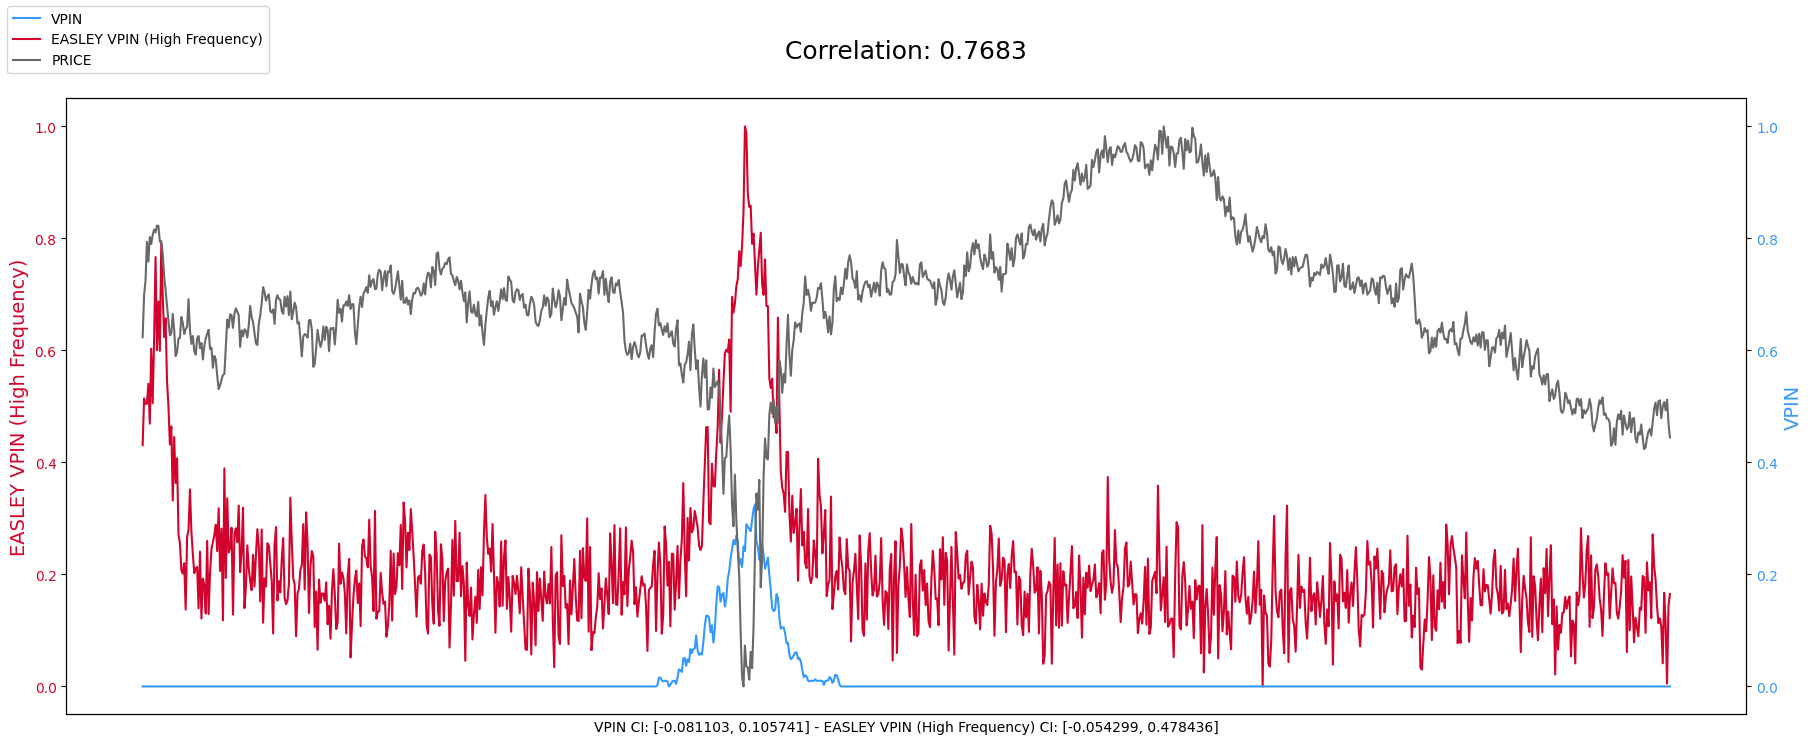
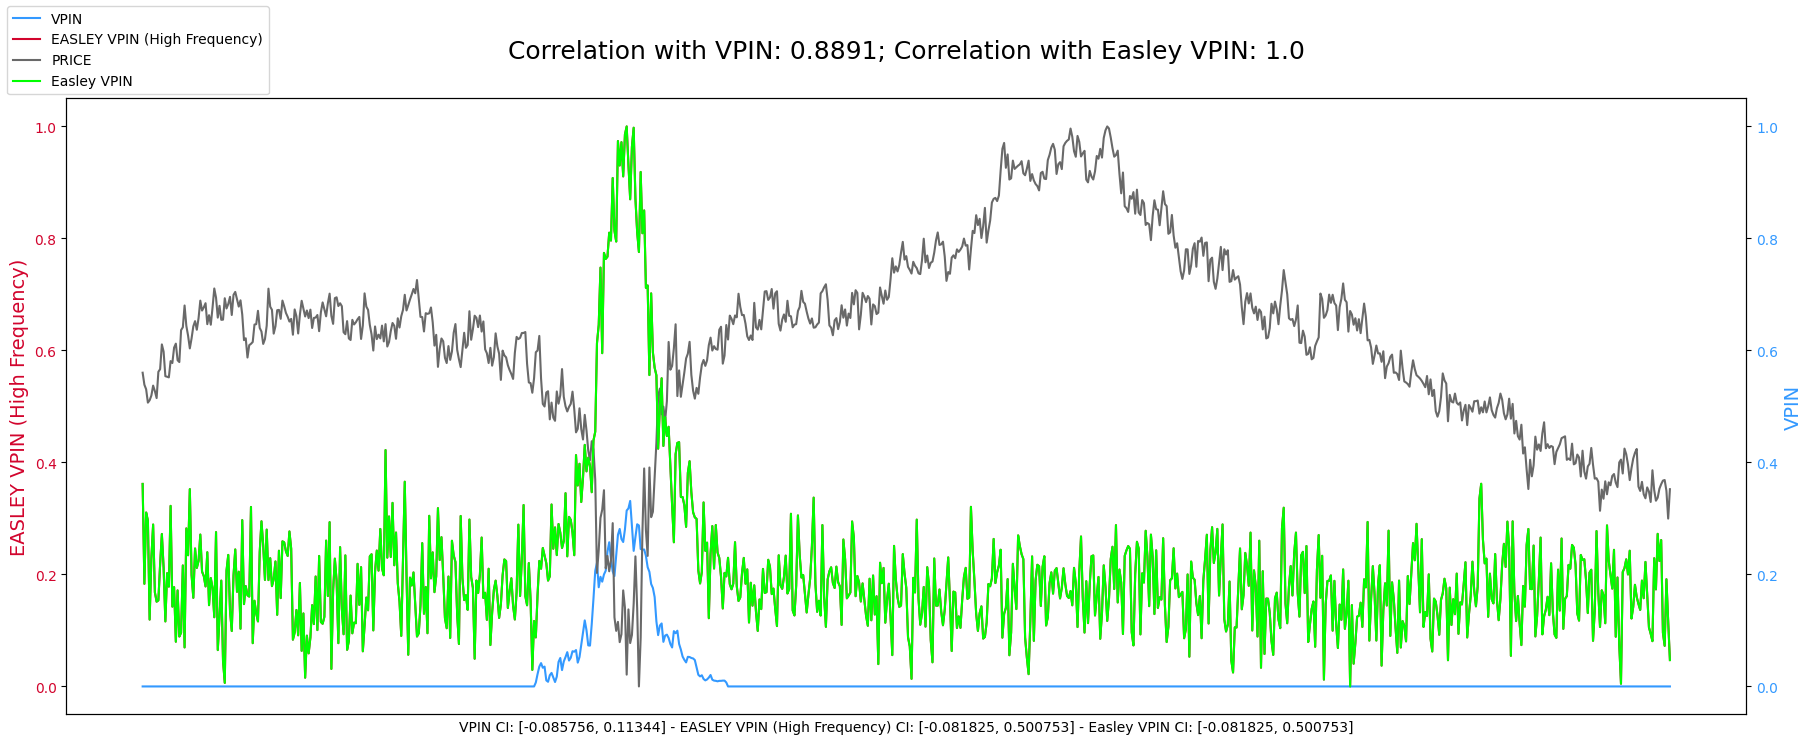
Add 1 and 2 % experiments

diff --git a/plots/monte-carlo/graph_metrics.py b/plots/monte-carlo/graph_metrics.py
@@ -7,18 +7,21 @@ import multiprocessing
 import sys
 
 
-def plot_metrics(X, Y1, Y2, Y3, metric1, metric2, metric3):
+def plot_metrics(X, Y1, Y2, Y3, Y4, metric1, metric2, metric3, metric4):
     # Y1 = VPIN
     # Y2 = Metric values
     # Y3 = PRICE
+    # Y4 = Easley VPIN
 
     # metric1 = VPIN
     # metric2 = Metric
     # metric3 = PRICE
+    # metric4 = Easley VPIN
 
     COLOR_VPIN = "#3399ff"
     COLOR_METRIC = "#D2042D"
     COLOR_PRICE = "#696969"
+    COLOR_EASLEY_VPIN = "#00FF00"
 
     # Y3 Should be normalized first
     x = np.array(Y3)
@@ -32,31 +35,40 @@ def plot_metrics(X, Y1, Y2, Y3, metric1, metric2, metric3):
     l1, = ax2.plot(X, Y1, color=COLOR_VPIN)
     l2, = ax1.plot(X, Y2, color=COLOR_METRIC)
     l3, = ax2.plot(X, x_norm, color=COLOR_PRICE)
+    l4, = ax2.plot(X, Y4, color=COLOR_EASLEY_VPIN)
 
     # Standard deviation and confidence interval
-    standard_deviation_metric1 = np.std(Y1)
-    standard_deviation_metric2 = np.std(Y2)
+    standard_deviation_metric1 = np.std(Y1) # VPIN
+    standard_deviation_metric2 = np.std(Y2) # Metric value
+    standard_deviation_metric4 = np.std(Y4) # Easley VPIN
     average_metric1 = np.mean(Y1)
     average_metric2 = np.mean(Y2)
+    average_metric4 = np.mean(Y4)
     lower_bound_1 = average_metric1 - 2 * standard_deviation_metric1
     upper_bound_1 = average_metric1 + 2 * standard_deviation_metric1
     lower_bound_2 = average_metric2 - 2 * standard_deviation_metric2
     upper_bound_2 = average_metric2 + 2 * standard_deviation_metric2
+    lower_bound_4 = average_metric4 - 2 * standard_deviation_metric4
+    upper_bound_4 = average_metric4 + 2 * standard_deviation_metric4
 
     # Correlation
-    correlation = np.corrcoef(Y1, Y2)
+    correlation_vpin_metric = np.corrcoef(Y1, Y2)
+    correlation_easley_vpin_metric = np.corrcoef(Y4, Y2)
 
     # Plot statistics
     number_of_rounded_decimals = 6
-    subtitle1 = metric1 + " CI: [" + str(round(lower_bound_1, number_of_rounded_decimals)) + ", " + \
+    ci1 = metric1 + " CI: [" + str(round(lower_bound_1, number_of_rounded_decimals)) + ", " + \
         str(round(upper_bound_1, number_of_rounded_decimals)) + "]"
-    subtitle2 = metric2 + " CI: [" + str(round(lower_bound_2, number_of_rounded_decimals)) + ", " + \
+    ci2 = metric2 + " CI: [" + str(round(lower_bound_2, number_of_rounded_decimals)) + ", " + \
         str(round(upper_bound_2, number_of_rounded_decimals)) + "]"
-    subtitle3 = round(correlation[1][0], 4)
+    ci3 = metric4 + " CI: [" + str(round(lower_bound_4, number_of_rounded_decimals)) + ", " + \
+          str(round(upper_bound_4, number_of_rounded_decimals)) + "]"
+    subtitle_vpin_metric = round(correlation_vpin_metric[1][0], 4)
+    subtitle_easley_vpin_metric = round(correlation_easley_vpin_metric[1][0], 4)
 
-    fig.text(0.2, 0.93, "Correlation: " + str(subtitle3), ha='center', fontsize=18)
+    fig.text(0.2, 0.93, "Correlation with VPIN: " + str(subtitle_vpin_metric) + "; Correlation with Easley VPIN: " + str(subtitle_easley_vpin_metric), ha='center', fontsize=18)
 
-    ax1.set_xlabel(subtitle1 + " - " + subtitle2)
+    ax1.set_xlabel(ci1 + " - " + ci2 + " - " + ci3)
     ax1.set_xticks([])
 
     ax2.set_ylabel(metric1, color=COLOR_VPIN, fontsize=14)
@@ -69,7 +81,7 @@ def plot_metrics(X, Y1, Y2, Y3, metric1, metric2, metric3):
     agents = sys.argv[2]
     percentage = sys.argv[3]
 
-    fig.legend((l1, l2, l3), (metric1, metric2, metric3), fontsize="medium", loc='upper left')
+    fig.legend((l1, l2, l3, l4), (metric1, metric2, metric3, metric4), fontsize="medium", loc='upper left')
 
     # Adjust layout to make room for the legend
     plt.subplots_adjust(left=-0.5)
@@ -368,25 +380,25 @@ if __name__ == '__main__':
         small_granularity = int(0.1 * len(mean_PRICE_results_small))
 
         # CORRELATION PLOTS
-        x_axis_VPIN_small = np.array(mean_VPIN_results_small)[:-small_granularity]
-        x_axis_VPIN_big = np.array(mean_VPIN_results_big)[:-big_granularity]
-        x_axis_EVPIN_small = np.array(mean_EVPIN_results_small)[:-small_granularity]
-        x_axis_EVPIN_big = np.array(mean_EVPIN_results_big)[:-big_granularity]
-        y_axis_PRICE_small = np.array(mean_PRICE_results_small)[:-small_granularity]
-        y_axis_PRICE_big = np.array(mean_PRICE_results_big)[:-big_granularity]
+        x_axis_VPIN_small = np.array(mean_VPIN_results_small)[small_granularity : -small_granularity]
+        x_axis_VPIN_big = np.array(mean_VPIN_results_big)[big_granularity : -big_granularity]
+        x_axis_EVPIN_small = np.array(mean_EVPIN_results_small)[small_granularity : -small_granularity]
+        x_axis_EVPIN_big = np.array(mean_EVPIN_results_big)[big_granularity : -big_granularity]
+        y_axis_PRICE_small = np.array(mean_PRICE_results_small)[small_granularity : -small_granularity]
+        y_axis_PRICE_big = np.array(mean_PRICE_results_big)[big_granularity : -big_granularity]
 
         # BIG
-        y_axis_assortativity = np.array(mean_assortativity_results)[:-big_granularity]
-        y_axis_average_clustering = np.array(mean_average_clustering_results)[:-big_granularity]
-        y_axis_diameter = np.array(mean_diameter_results)[:-big_granularity]
-        y_axis_independence = np.array(mean_independence_results)[:-big_granularity]
-        y_axis_stars = np.array(mean_stars_results)[:-big_granularity]
+        y_axis_assortativity = np.array(mean_assortativity_results)[big_granularity : -big_granularity]
+        y_axis_average_clustering = np.array(mean_average_clustering_results)[big_granularity : -big_granularity]
+        y_axis_diameter = np.array(mean_diameter_results)[big_granularity : -big_granularity]
+        y_axis_independence = np.array(mean_independence_results)[big_granularity : -big_granularity]
+        y_axis_stars = np.array(mean_stars_results)[big_granularity : -big_granularity]
 
         # SMALL
-        y_axis_betweeness = np.array(mean_betweenness_results)[:-small_granularity]
-        y_axis_bipartivity = np.array(mean_bipartivity_results)[:-small_granularity]
-        y_axis_closeness = np.array(mean_closeness_results)[:-small_granularity]
-        y_axis_connected = np.array(mean_connected_results)[:-small_granularity]
+        y_axis_betweeness = np.array(mean_betweenness_results)[small_granularity : -small_granularity]
+        y_axis_bipartivity = np.array(mean_bipartivity_results)[small_granularity : -small_granularity]
+        y_axis_closeness = np.array(mean_closeness_results)[small_granularity : -small_granularity]
+        y_axis_connected = np.array(mean_connected_results)[small_granularity : -small_granularity]
 
         x_axis_small = []
         for index in range(len(x_axis_VPIN_small)):
@@ -396,28 +408,6 @@ if __name__ == '__main__':
         for index in range(len(x_axis_VPIN_big)):
             x_axis_big.append(index)
 
-        # BIG
-        plot_metrics(x_axis_big, x_axis_VPIN_big, y_axis_assortativity, y_axis_PRICE_big,
-                     "VPIN", "ASSORTATIVITY", "PRICE")
-        plot_metrics(x_axis_big, x_axis_VPIN_big, y_axis_average_clustering, y_axis_PRICE_big,
-                     "VPIN", "AVERAGE CLUSTERING", "PRICE")
-        plot_metrics(x_axis_big, x_axis_VPIN_big, y_axis_diameter, y_axis_PRICE_big,
-                     "VPIN", "DIAMETER", "PRICE")
-        plot_metrics(x_axis_big, x_axis_VPIN_big, y_axis_independence, y_axis_PRICE_big,
-                     "VPIN", "MAXIMAL INDEPENDENT SET SIZE", "PRICE")
-        plot_metrics(x_axis_big, x_axis_VPIN_big, y_axis_stars, y_axis_PRICE_big,
-                     "VPIN", "NUMBER OF STARS", "PRICE")
-
-        # SMALL
-        plot_metrics(x_axis_small, x_axis_VPIN_small, y_axis_betweeness, y_axis_PRICE_small,
-                     "VPIN", "BETWEENNESS CENTRALITY", "PRICE")
-        plot_metrics(x_axis_small, x_axis_VPIN_small, y_axis_bipartivity, y_axis_PRICE_small,
-                     "VPIN", "BIPARTIVITY", "PRICE")
-        plot_metrics(x_axis_small, x_axis_VPIN_small, y_axis_closeness, y_axis_PRICE_small,
-                     "VPIN", "CLOSENESS CENTRALITY", "PRICE")
-        plot_metrics(x_axis_small, x_axis_VPIN_small, y_axis_connected, y_axis_PRICE_small,
-                     "VPIN", "CONNECTED COMPONENTS", "PRICE")
-
         # EASLEY
         # Should be normalized first
         e_vpin_big = np.array(x_axis_EVPIN_big)
@@ -426,7 +416,30 @@ if __name__ == '__main__':
         e_vpin_norm_big= (e_vpin_big - np.min(e_vpin_big)) / (np.max(e_vpin_big) - np.min(e_vpin_big))
         e_vpin_norm_small = (e_vpin_small - np.min(e_vpin_small)) / (np.max(e_vpin_small) - np.min(e_vpin_small))
 
-        plot_metrics(x_axis_big, x_axis_VPIN_big, e_vpin_norm_big, y_axis_PRICE_big,
-                     "VPIN", "EASLEY VPIN (Low Frequency)", "PRICE")
-        plot_metrics(x_axis_small, x_axis_VPIN_small, e_vpin_norm_small, y_axis_PRICE_small,
-                     "VPIN", "EASLEY VPIN (High Frequency)", "PRICE")
+        # BIG
+        plot_metrics(x_axis_big, x_axis_VPIN_big, y_axis_assortativity, y_axis_PRICE_big, e_vpin_norm_big,
+                     "VPIN", "ASSORTATIVITY", "PRICE", "Easley VPIN")
+        plot_metrics(x_axis_big, x_axis_VPIN_big, y_axis_average_clustering, y_axis_PRICE_big, e_vpin_norm_big,
+                     "VPIN", "AVERAGE CLUSTERING", "PRICE", "Easley VPIN")
+        plot_metrics(x_axis_big, x_axis_VPIN_big, y_axis_diameter, y_axis_PRICE_big, e_vpin_norm_big,
+                     "VPIN", "DIAMETER", "PRICE", "Easley VPIN")
+        plot_metrics(x_axis_big, x_axis_VPIN_big, y_axis_independence, y_axis_PRICE_big, e_vpin_norm_big,
+                     "VPIN", "MAXIMAL INDEPENDENT SET SIZE", "PRICE", "Easley VPIN")
+        plot_metrics(x_axis_big, x_axis_VPIN_big, y_axis_stars, y_axis_PRICE_big, e_vpin_norm_big,
+                     "VPIN", "NUMBER OF STARS", "PRICE", "Easley VPIN")
+
+        # SMALL
+        plot_metrics(x_axis_small, x_axis_VPIN_small, y_axis_betweeness, y_axis_PRICE_small, e_vpin_norm_small,
+                     "VPIN", "BETWEENNESS CENTRALITY", "PRICE", "Easley VPIN")
+        plot_metrics(x_axis_small, x_axis_VPIN_small, y_axis_bipartivity, y_axis_PRICE_small, e_vpin_norm_small,
+                     "VPIN", "BIPARTIVITY", "PRICE", "Easley VPIN")
+        plot_metrics(x_axis_small, x_axis_VPIN_small, y_axis_closeness, y_axis_PRICE_small, e_vpin_norm_small,
+                     "VPIN", "CLOSENESS CENTRALITY", "PRICE", "Easley VPIN")
+        plot_metrics(x_axis_small, x_axis_VPIN_small, y_axis_connected, y_axis_PRICE_small, e_vpin_norm_small,
+                     "VPIN", "CONNECTED COMPONENTS", "PRICE", "Easley VPIN")
+
+
+        plot_metrics(x_axis_big, x_axis_VPIN_big, e_vpin_norm_big, y_axis_PRICE_big, e_vpin_norm_big,
+                     "VPIN", "EASLEY VPIN (Low Frequency)", "PRICE", "Easley VPIN")
+        plot_metrics(x_axis_small, x_axis_VPIN_small, e_vpin_norm_small, y_axis_PRICE_small, e_vpin_norm_small,
+                     "VPIN", "EASLEY VPIN (High Frequency)", "PRICE", "Easley VPIN")

diff --git a/plots/independent/computeMetrics.py b/plots/independent/computeMetrics.py
@@ -7,6 +7,7 @@ def calculate_easley_vpin(bucket):
     buy_volume = sum(trade.quantity for trade in bucket if trade.direction == 'B')
     sell_volume = sum(trade.quantity for trade in bucket if trade.direction == 'A')
     total_volume = buy_volume + sell_volume
+    total_volume = total_volume * 2
     imbalance = abs(buy_volume - sell_volume) / total_volume if total_volume != 0 else 0
     return imbalance
 
